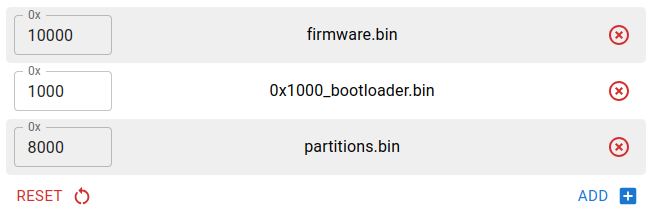
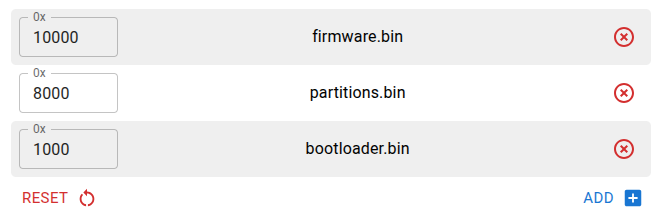
README aesthetics

diff --git a/README.md b/README.md
@@ -52,8 +52,8 @@ The easiest way to flash firmware. Build your own CGv2 using the following firmw
 - Download the latest firmware from the [Releases](https://github.com/giovantenne/CG2/releases) page
 - Download the [partitions.bin](https://github.com/giovantenne/CG2/raw/refs/heads/master/bin/partitions.bin) file
 - Download the [bootloader.bin](https://github.com/giovantenne/CG2/raw/refs/heads/master/bin/bootloader.bin) file
-- Use the nice [ESP Web Tool Flash](https://esp.huhn.me/) tool to Flash your device firmware through your browser  (recommend via Google Chrome incognito mode)
-- Connect your device, adjust the table as for the image below and click _PROGRAM_:
+- Open the [ESP Web Tool](https://esp.huhn.me/) to flash the firmware directly from your browser  (recommended via Google Chrome incognito mode)
+- Connect your device, set the table as shown in the image below, and click _PROGRAM_:
 
 ![ESP Web Tool Flash table](https://github.com/giovantenne/CG2/blob/master/bin/ESPWebTool.png)
 
